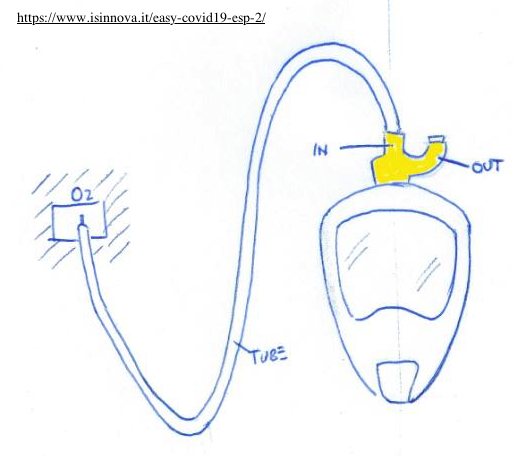
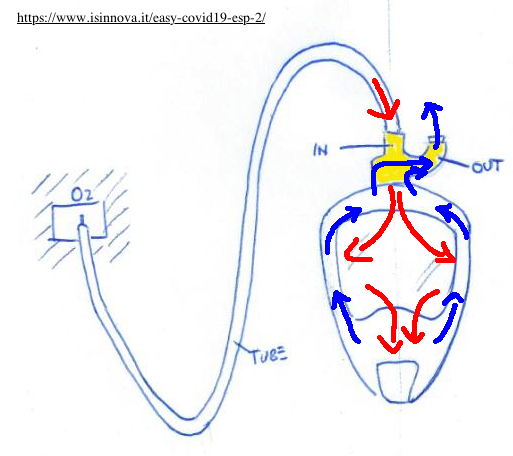
images

diff --git a/README.md b/README.md
@@ -8,21 +8,25 @@ Los cambios realizados han sido pensados para el uso del dispositivo en determin
 
 ## Diferencias en los esquemas de montaje
 
-El esquema inicial descargado de la pagina de [Isinnova](https://www.3dprintingmedia.network/forums/topic/charlotte-valve-by-isinnova-for-non-invasive-ventilator/) utilizaba las vías laterales de la mascara como elementos de salida y la vía central como elemento de entrada, tal y 
-
-![alt text](image/scheme_initial.jpg#center)
+El esquema inicial descargado de la pagina de [Isinnova](https://www.3dprintingmedia.network/forums/topic/charlotte-valve-by-isinnova-for-non-invasive-ventilator/) utilizaba las vías laterales de la mascara como elementos de salida y la vía central como elemento de entrada, tal y como se muestra en la siguiente figura:
 
 <p align="center">
-<img src="image/scheme_initial.jpg">
+    <img src="image/scheme_initial.jpg" width="400" height="356" >
 </p>
 
-Como se menciona en el punto anterior, el esquema actual<z> intercambia dichos canales para ganar área de entrada, y se sacrifica el área a la salida de la válvula PEEP:
+Sin embargo, y como se menciona en el punto anterior, el esquema actual intercambia dichos canales para ganar área de entrada. El nuevo esquema de circulación de flujo es el siguiente:
 
-![alt text](image/scheme_final.jpg)
+<p align="center">
+    <img src="image/scheme_final.jpg" width="300" height="367" >
+</p>
+
+![alt text]()
 
 ## Modelo 1. Válvula de Charlotte modificada
 
-![alt text](image/modelo_1.jpg)
+<p align="center">
+    <img src="image/modelo_1.jpg" width="300" height="320" >
+</p>
 
 Los principales cambios son los siguientes:
 * **Estanqueidad**: Mejora de las estanqueidades por rediseño de la conexión, mayor ajuste con la goma tórica. Se insertan dos orejas que pueden ser utilizadas para apretar la conexión contra la junta tórica.
@@ -36,6 +40,10 @@ Los principales cambios son los siguientes:
 * **Sistema de agarre**: Eliminación de la pestaña de agarre y sustitución por un anclaje con bridas en los laterales de la valvula Charlotte.
 
 ## Modelo 2. Nuevo modelo con entrada balanceada de aire
+
+<p align="center">
+    <img src="image/isabel.jpg" width="300" height="336" >
+</p>
 
 Las principales mejoras son las siguientes:
 
@@ -82,7 +90,13 @@ A continuación se muestran los videos de las pruebas realizadas.
 
 [Descarga video montaje final](video/test_final.mp4)
 
+* **Explicación montaje de valvula Charlotte modificada**:[Montaje final]
+
+[![Watch the video](https://i.imgur.com/vKb2F1B.png)](https://youtu.be/vt5fpE0bzSY)
+
+
 ## Archivos STL. 
+
 ### Archivo STL. Versión Charlotte modificada
 
 [Descarga archivo STL v.3](stl/charlotte_valve_v3.stl)
@@ -95,8 +109,6 @@ test_final_2
 ## Impresión 3D
 
 * **3D Printer**: Prusa MK3s
-
-![alt text](image/isabel.jpg)
 
 ### Printing settings
 
